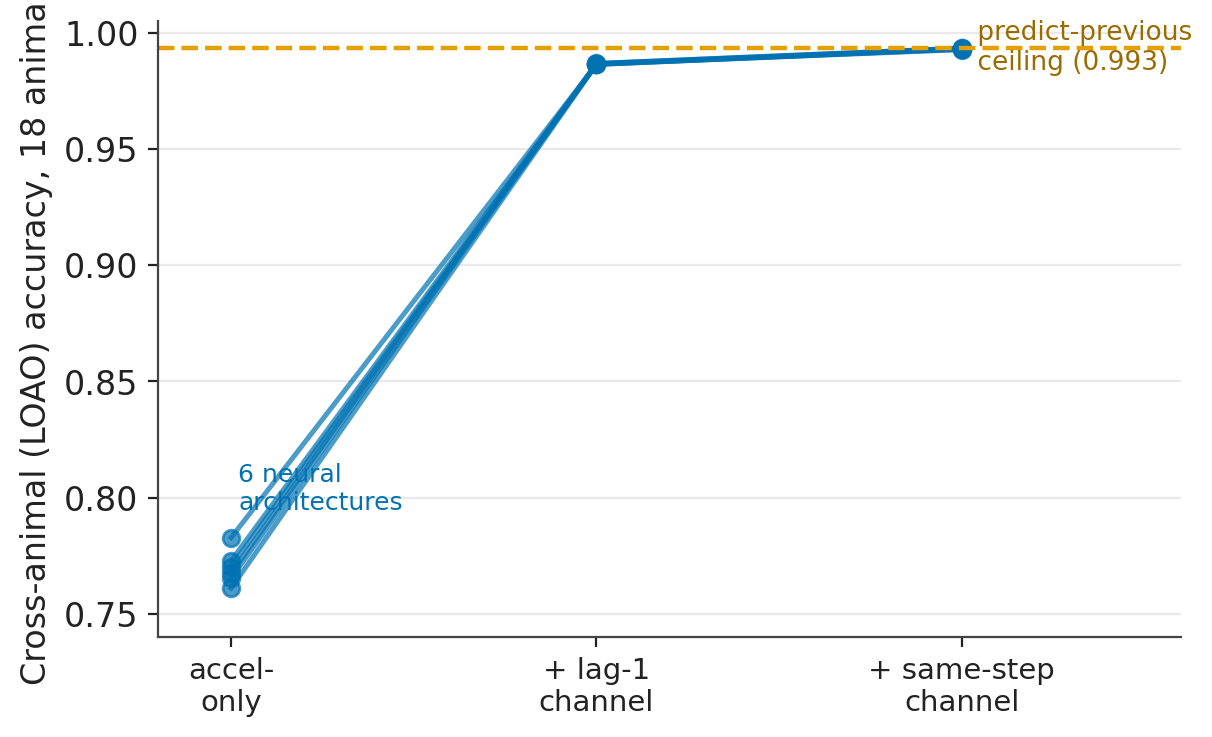
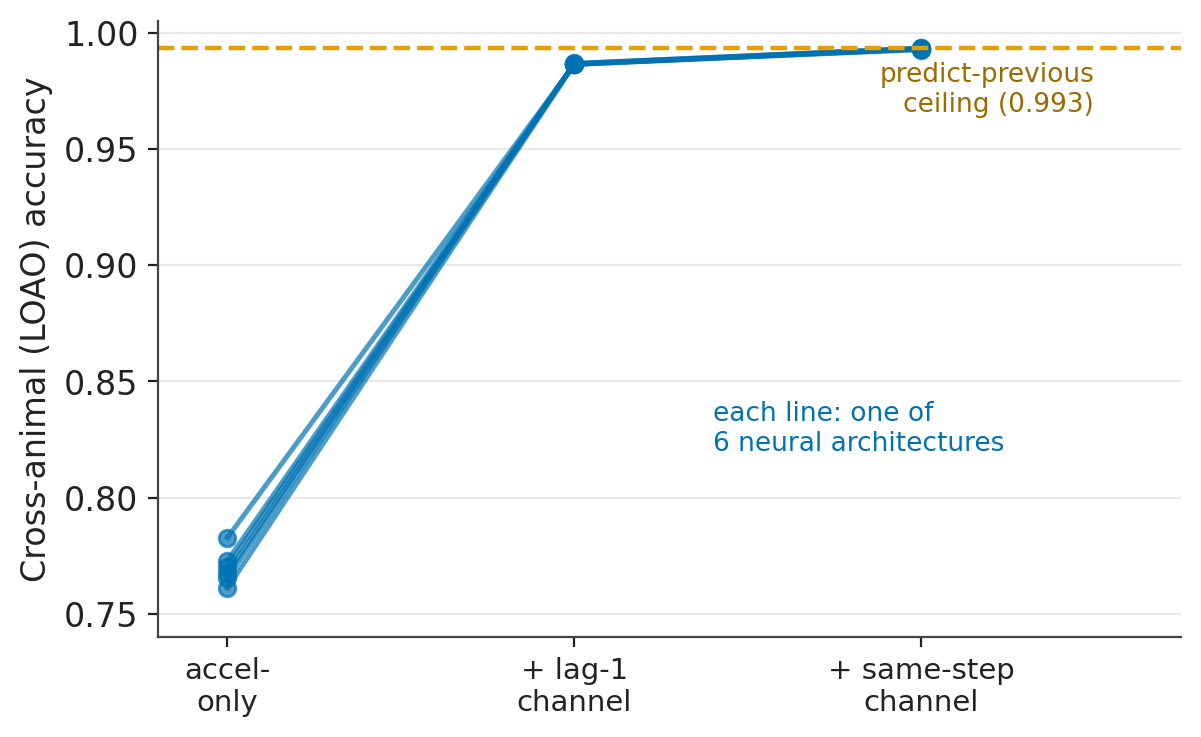
Fix figure text placement and labels
- fig_input: move the '6 neural architectures' note out from under the
  rising lines into clear space; shorten the y-axis label so it is no longer
  clipped; keep the predict-previous ceiling label clear of the data.
- fig_persistence: reposition the '25-s window' label inside the shaded band,
  clear of the curve.

diff --git a/scripts/make_paper_figures.py b/scripts/make_paper_figures.py
@@ -79,7 +79,7 @@ ax.plot(lags,sp[1:],color=BLUE,lw=2,zorder=2)
 ax.scatter([1],[p1],color=ACCENT,s=70,zorder=3,edgecolor="white",linewidth=1)
 ax.annotate(f"at 1 s: {p1:.3f}\n(= predict-previous ceiling)",xy=(1,p1),xytext=(95,0.90),
             fontsize=9.5,arrowprops=dict(arrowstyle="->",color="#333"))
-ax.text(13,0.965,"25-s\nwindow",fontsize=8,color="#9a6b00",ha="center",va="top")
+ax.text(13,0.62,"25-s\nwindow",fontsize=8.5,color="#9a6b00",ha="center",va="center")
 ax.set_xlabel("Time lag (s)"); ax.set_ylabel("P(same behaviour after lag)")
 ax.set_xlim(0,maxlag); ax.set_ylim(0.5,1.0)
 ax.grid(color="#ececec",lw=0.8); ax.set_axisbelow(True)
@@ -123,10 +123,10 @@ for m in archs:
     ys=[abl[(abl.architecture==m)&(abl.input_set==s)]["acc_mean"].iloc[0] for s in order]
     ax.plot(x,ys,marker="o",ms=6,lw=1.8,color=BLUE,alpha=0.7)
 ax.axhline(pp,color=ACCENT,ls="--",lw=1.6)
-ax.text(2.02,pp,f" predict-previous\n ceiling ({pp:.3f})",va="center",fontsize=9.5,color="#9a6b00")
-ax.text(0.02,0.795,"6 neural\narchitectures",fontsize=9,color=BLUE)
+ax.text(2.5,pp-0.006,f"predict-previous\nceiling ({pp:.3f})",va="top",ha="right",fontsize=9.5,color="#9a6b00")
+ax.text(1.4,0.82,"each line: one of\n6 neural architectures",fontsize=9.5,color=BLUE,ha="left")
 ax.set_xticks(x); ax.set_xticklabels(xlab,fontsize=10.5)
-ax.set_ylabel("Cross-animal (LOAO) accuracy, 18 animals"); ax.set_ylim(0.74,1.005); ax.set_xlim(-0.2,2.6)
+ax.set_ylabel("Cross-animal (LOAO) accuracy"); ax.set_ylim(0.74,1.005); ax.set_xlim(-0.2,2.75)
 ax.grid(axis="y",color="#e9e9e9",lw=0.8); ax.set_axisbelow(True)
 save(fig,"fig_input")
 
